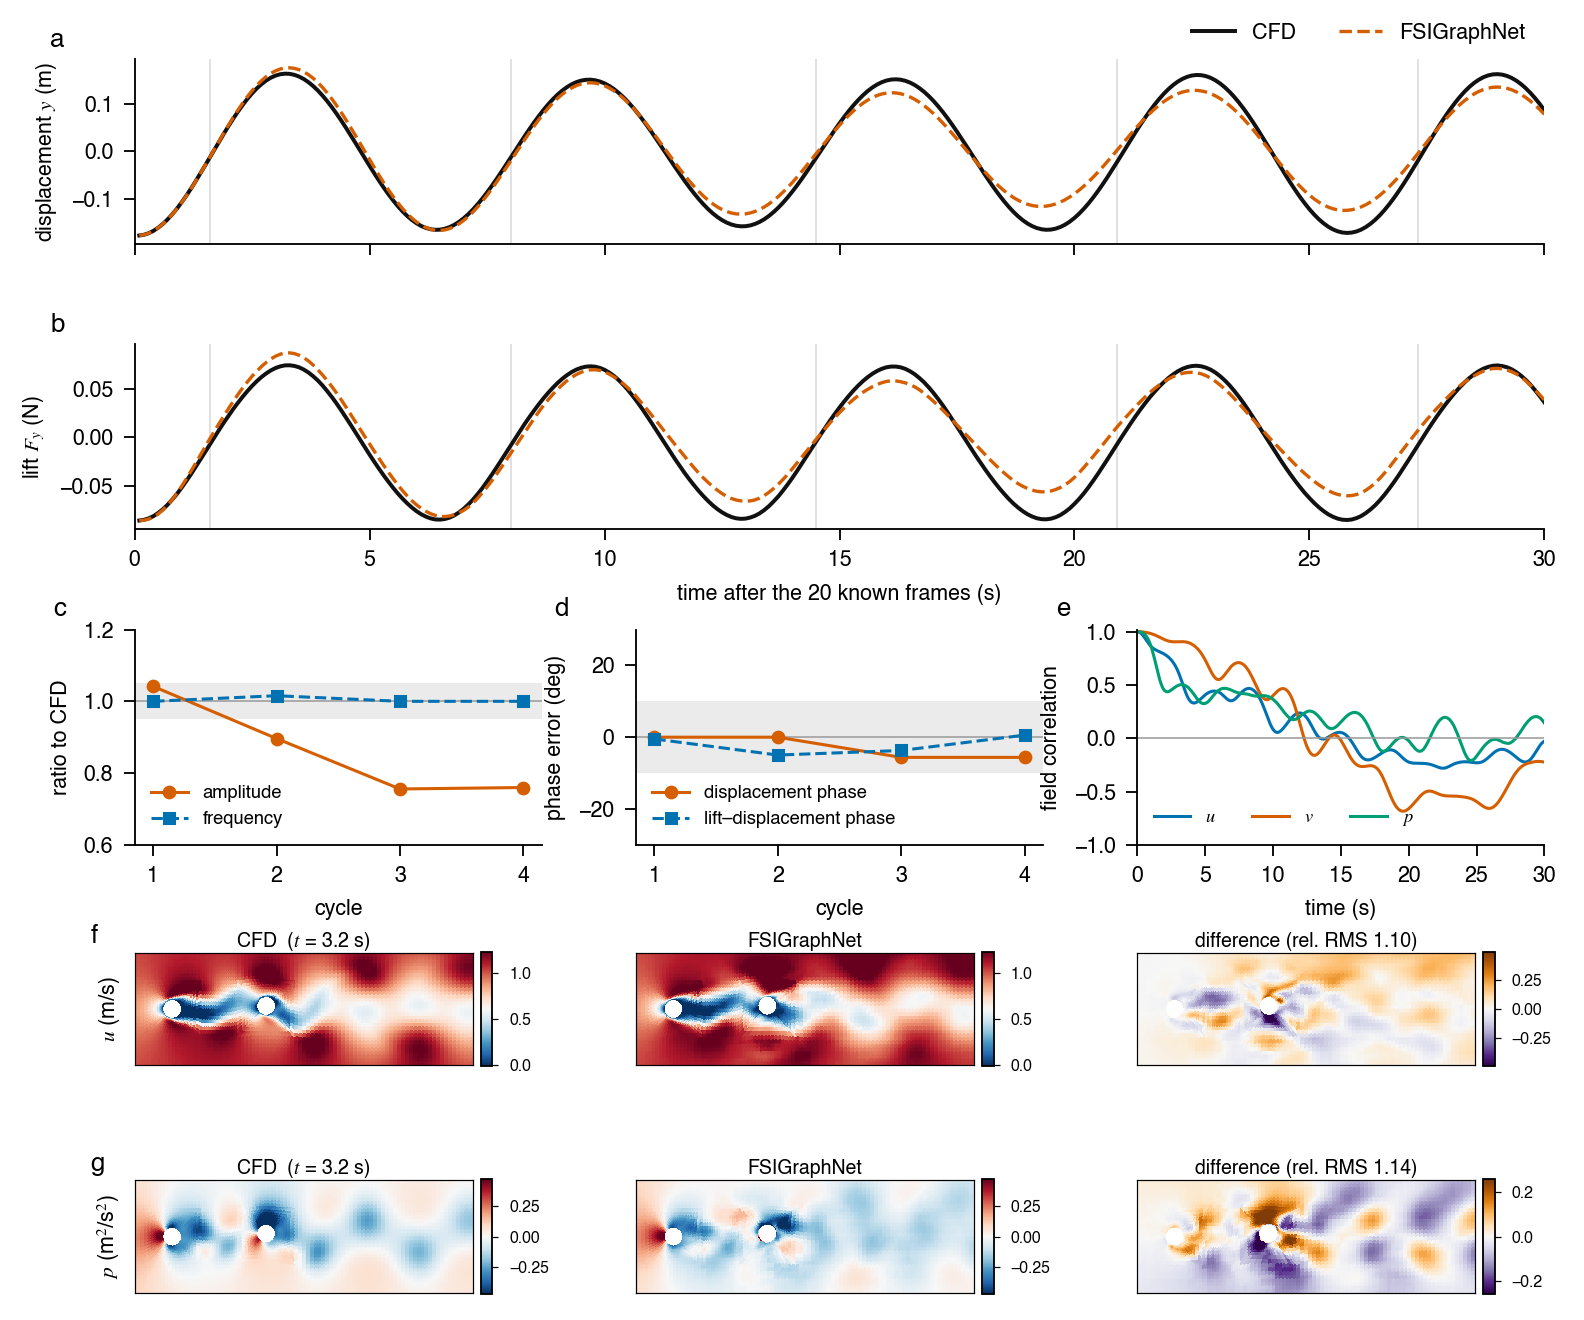
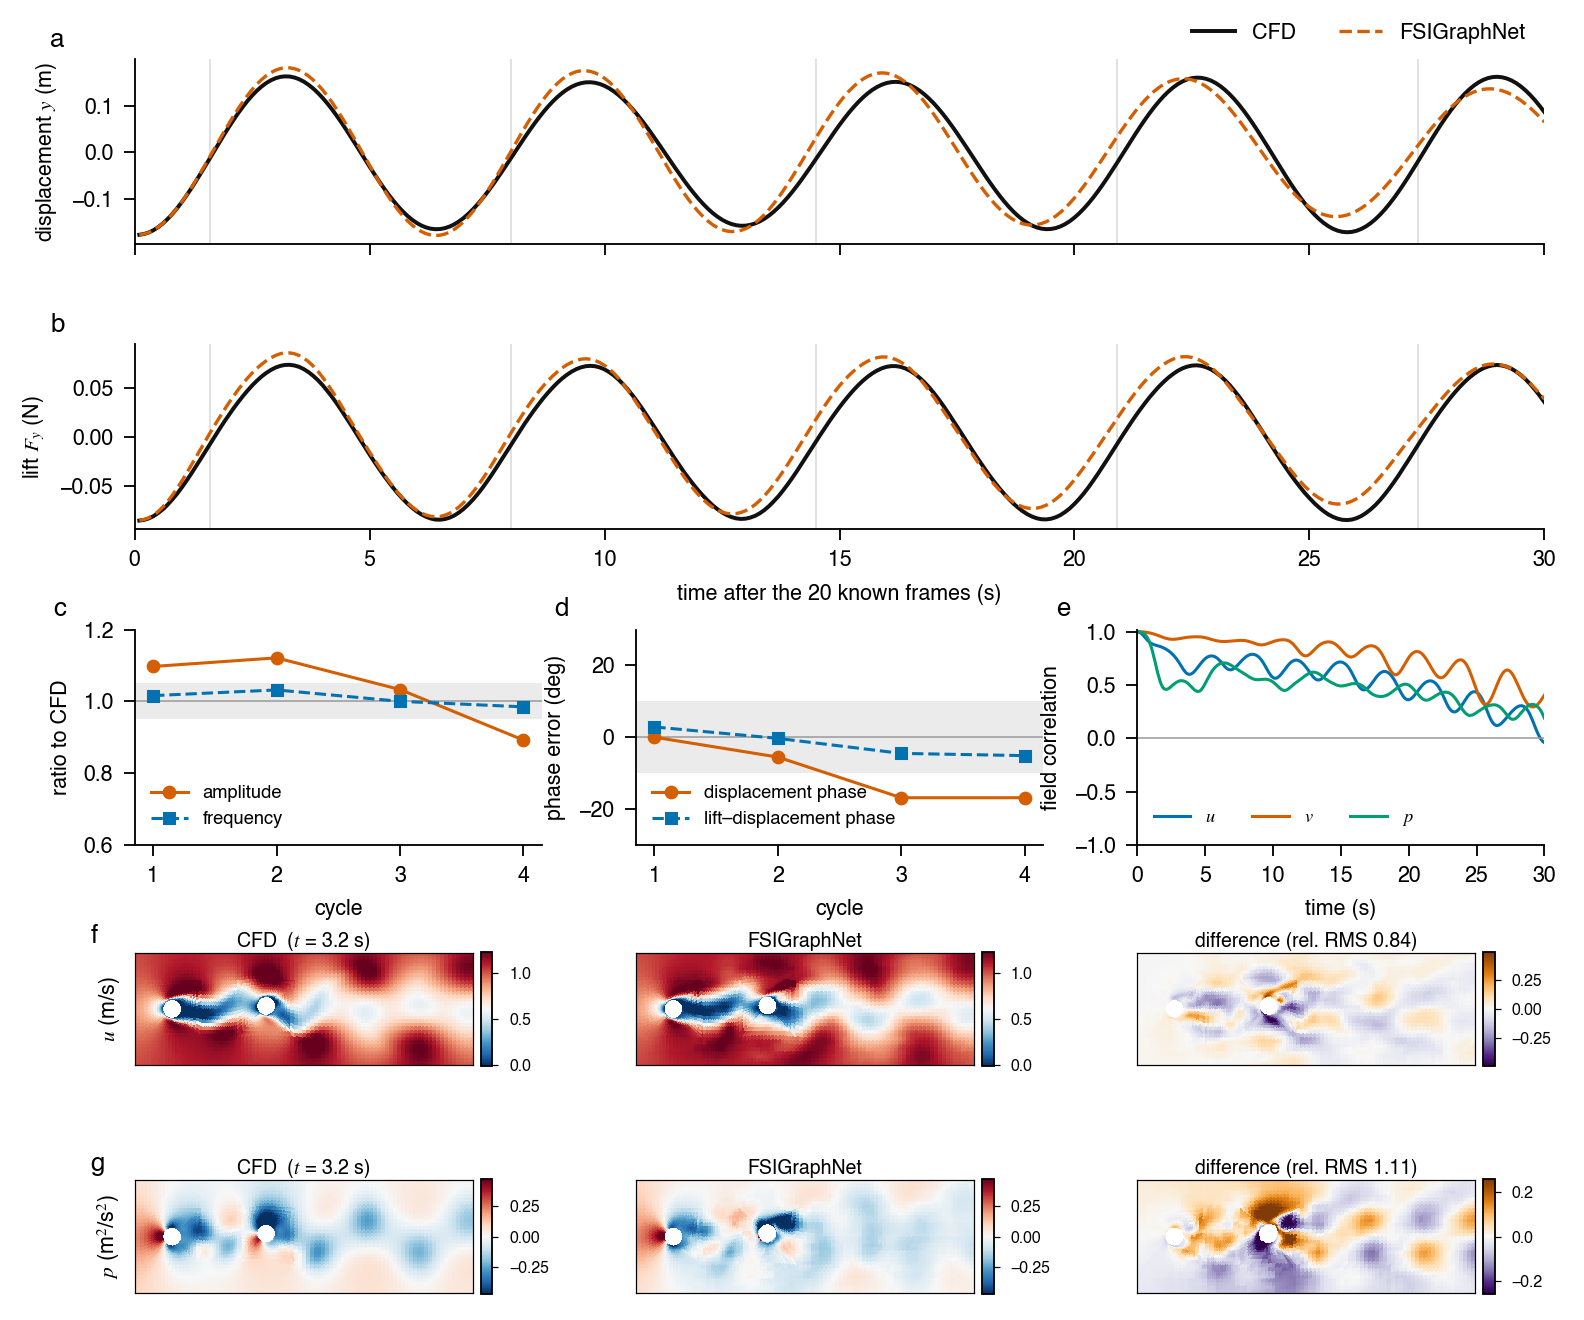
Release long-rollout fine-tuned model; flow-field figure and multi-model renderer

diff --git a/tools/render_compare.py b/tools/render_compare.py
@@ -1,0 +1,109 @@
+#!/usr/bin/env python3
+"""Compare several evaluation runs (fsi_mgn_eval.py, frames saved) against CFD on one case.
+
+  python3 tools/render_compare.py <case_view_dir> <out_dir> <label>=<eval_run_dir> [<label>=<eval_run_dir> ...]
+
+Figures:
+  compare_field_{p,u,v,w}.png  rows = rollout steps, columns = CFD | model 1 | model 2 | ...; one colour scale per row (from CFD)
+  compare_fields_summary.png   rows = p, u, v, vorticity; columns = CFD | models at half a period and two periods
+  compare_loads.png            rear-cylinder y and Fy (total, pressure, viscous) against CFD
+  compare_errors.png           per-step relative RMS error and correlation of u, v, p
+All runs must use the same case, offset and step count. Host numpy + matplotlib only.
+"""
+import json, sys
+from pathlib import Path
+import numpy as np
+import matplotlib
+matplotlib.use('Agg')
+import matplotlib.pyplot as plt
+import matplotlib.tri as mtri
+
+view, out = Path(sys.argv[1]), Path(sys.argv[2]); out.mkdir(parents=True, exist_ok=True); case = view.name
+runs = []
+for arg in sys.argv[3:]:
+    lab, d = arg.split('=', 1); d = Path(d); m = json.loads((d / 'results/metrics.json').read_text())
+    r0 = [r for r in m['runs'] if r['case'] == case][0]; od = d / 'results' / case / ('o%03d' % r0['offset'])
+    runs.append({'label': lab, 'm': m, 'r0': r0, 'traj': json.loads((od / 'trajectory.json').read_text())['rows'],
+                 'fr': np.load(od / 'frames.npz')})
+r0 = runs[0]['r0']; NK = int(runs[0]['m']['model_config']['known_frames']); a = r0['offset'] + NK - 1; n = len(runs[0]['traj'])
+P = r0['period_steps']
+z = np.load(view / 'sequence.npz'); quads = z['cell_vertices_ccw']; nc = len(quads)
+tris = np.vstack([quads[:, [0, 1, 2]], quads[:, [0, 2, 3]]]); cell_of_tri = np.concatenate([np.arange(nc), np.arange(nc)])
+own = z['planar_face_owner']; nei = z['planar_face_neighbor']; inner = nei >= 0; nei_ = np.where(inner, nei, own)
+
+
+def vort(U, S, V):
+    Uf = np.where(inner[:, None], .5 * (U[own] + U[nei_]), U[own]); cz = S[:, 0] * Uf[:, 1] - S[:, 1] * Uf[:, 0]
+    w = np.zeros(nc); np.add.at(w, own, cz); np.add.at(w, nei[inner], -cz[inner]); return w / V
+
+
+def cfd(i):
+    k = a + i; U = z['native_cell_U'][k][:, :2]
+    return {'u': U[:, 0], 'v': U[:, 1], 'p': z['native_cell_p'][k], 'w': vort(U, z['face_sf'][k][:, :2], z['cell_volume'][k])}, z['node_xy'][k]
+
+
+def pred(fr, i):
+    U = fr['U'][i - 1].astype(float)
+    return {'u': U[:, 0], 'v': U[:, 1], 'p': fr['p'][i - 1].astype(float), 'w': fr['w'][i - 1].astype(float)}, fr['xy'][i - 1].astype(float)
+
+
+steps = sorted({int(round(P / 2)), int(round(P)), int(round(2 * P)), n} & set(range(1, n + 1)))
+label = {'u': 'u (m/s)', 'v': 'v (m/s)', 'p': 'p (kinematic, m²/s²)', 'w': 'vorticity ω_z (1/s)'}
+cols = len(runs) + 1
+for key in ('p', 'u', 'v', 'w'):
+    fig, ax = plt.subplots(len(steps), cols, figsize=(4.6 * cols, 1.75 * len(steps) + 0.6), constrained_layout=True, squeeze=False)
+    for r, i in enumerate(steps):
+        fc, xc = cfd(i); ref = fc[key]; lo, hi = np.percentile(ref, [1, 99])
+        vmin, vmax = (lo, hi) if key == 'u' else ((-1.5, 1.5) if key == 'w' else (-max(abs(lo), abs(hi)), max(abs(lo), abs(hi))))
+        panels = [(xc, ref, 'CFD')]
+        for run in runs:
+            fp, xp = pred(run['fr'], i); e = fp[key] - ref
+            panels.append((xp, fp[key], '%s   rel.RMS %.2f' % (run['label'], np.sqrt((e ** 2).mean() / ((ref - ref.mean()) ** 2).mean()))))
+        for c, (xy, val, ttl) in enumerate(panels):
+            im = ax[r, c].tripcolor(mtri.Triangulation(xy[:, 0], xy[:, 1], tris), facecolors=val[cell_of_tri], cmap='RdBu_r', vmin=vmin, vmax=vmax)
+            ax[r, c].set_title(ttl, fontsize=9); ax[r, c].set_xlim(-2, 16); ax[r, c].set_ylim(-3, 3); ax[r, c].set_aspect('equal')
+            ax[r, c].tick_params(labelsize=6)
+        ax[r, 0].set_ylabel('step %d\nt+%.1f s' % (i, 0.1 * i), fontsize=9)
+        fig.colorbar(im, ax=ax[r, :], shrink=0.9, pad=0.01).ax.tick_params(labelsize=7)
+    fig.suptitle('%s — %s, %d-step autonomous rollout from %d known frames (no CFD reset)' % (label[key], case, n, NK), fontsize=11)
+    fig.savefig(out / ('compare_field_%s.png' % key), dpi=90); plt.close(fig)
+
+sel = [int(round(P / 2)), int(round(2 * P))]; keys = ('p', 'u', 'v', 'w'); cols = len(sel) * (len(runs) + 1)
+fig, ax = plt.subplots(len(keys), cols, figsize=(3.3 * cols, 1.5 * len(keys) + 0.5), constrained_layout=True, squeeze=False)
+ref0 = cfd(sel[0])[0]; lim = {}
+for key in keys:
+    lo, hi = np.percentile(ref0[key], [1, 99])
+    lim[key] = (lo, hi) if key == 'u' else ((-1.5, 1.5) if key == 'w' else (-max(abs(lo), abs(hi)), max(abs(lo), abs(hi))))
+for s, i in enumerate(sel):
+    fc, xc = cfd(i); fps = [pred(run['fr'], i) for run in runs]
+    for r, key in enumerate(keys):
+        ref = fc[key]; vmin, vmax = lim[key]
+        for j, (xy, val, ttl) in enumerate([(xc, ref, 'CFD')] + [(xp, fp[key], run['label']) for (fp, xp), run in zip(fps, runs)]):
+            x = ax[r, s * (len(runs) + 1) + j]
+            im = x.tripcolor(mtri.Triangulation(xy[:, 0], xy[:, 1], tris), facecolors=val[cell_of_tri], cmap='RdBu_r', vmin=vmin, vmax=vmax)
+            x.set_xlim(-2, 16); x.set_ylim(-3, 3); x.set_aspect('equal'); x.set_xticks([]); x.set_yticks([])
+            if r == 0: x.set_title('%s, t+%.1f s' % (ttl, 0.1 * i), fontsize=9)
+            if j == 0 and s == 0: x.set_ylabel(label[key], fontsize=8)
+        if s == len(sel) - 1: fig.colorbar(im, ax=ax[r, :], shrink=0.9, pad=0.01).ax.tick_params(labelsize=7)
+fig.savefig(out / 'compare_fields_summary.png', dpi=110); plt.close(fig)
+
+t = 0.1 * np.arange(1, n + 1); idx = a + np.arange(1, n + 1); F = z['native_force_components']
+fig, ax = plt.subplots(4, 1, figsize=(13, 10), sharex=True, constrained_layout=True)
+for k, (name, key, cv) in enumerate((('rear cylinder y (m)', 'y', z['native_y_absolute'][idx]), ('lift Fy total (N)', 'Fy', F[idx, 0]),
+                                      ('Fy pressure part (N)', 'Fp', F[idx, 1]), ('Fy viscous part (N)', 'Fv', F[idx, 2]))):
+    ax[k].plot(t, cv, 'k-', lw=2.2, label='CFD')
+    for j, run in enumerate(runs): ax[k].plot(t, [q[key] for q in run['traj']], color='C%d' % j, lw=1.3, label=run['label'])
+    ax[k].set_ylabel(name); ax[k].grid(alpha=.3)
+    for c in np.arange(P, n + 1, P) * 0.1: ax[k].axvline(c, color='0.75', lw=0.8, ls=':')
+ax[0].legend(fontsize=9, ncol=len(runs) + 1, loc='upper left'); ax[-1].set_xlabel('time after the last known frame (s); dotted = CFD periods')
+fig.suptitle('Rear-cylinder motion and lift — ' + case); fig.savefig(out / 'compare_loads.png', dpi=90); plt.close(fig)
+
+fig, axs = plt.subplots(2, 3, figsize=(15, 7), sharex=True, constrained_layout=True)
+for c, k in enumerate(('u', 'v', 'p')):
+    for j, run in enumerate(runs):
+        ps = run['r0']['per_step']; axs[0, c].plot(t, ps[k], color='C%d' % j, label=run['label']); axs[1, c].plot(t, ps['corr_' + k], color='C%d' % j)
+    axs[0, c].set_title('relative RMS error, %s' % k); axs[1, c].set_title('correlation with CFD, %s' % k); axs[1, c].set_ylim(-1, 1)
+    axs[1, c].set_xlabel('time after the last known frame (s)')
+for x in axs.flat: x.grid(alpha=.3)
+axs[0, 0].legend(fontsize=9); fig.savefig(out / 'compare_errors.png', dpi=90); plt.close(fig)
+print('rendered', case, [r['label'] for r in runs], 'steps', steps)

diff --git a/README.md b/README.md
@@ -37,7 +37,7 @@ FSIGraphNet predicts the flow field and the structural response of vortex-induce
 - **One network, both physics.** A MeshGraphNet with a structure node outputs the flow field (u, v, p, face flux) and the rear-cylinder state (y, v, a) in each step. The structure node is coupled two-way to the wall cells through wall–structure edges.
 - **Strong coupling inside the network.** Every step runs three fixed coupling stages: predict the flow → integrate the wall force → update the structure → move the mesh → feed physics residuals back into the network. No fixed-point iteration, no solve.
 - **Physics in training, not in inference.** Fluid–structure equilibrium, continuity, wall no-penetration and Newmark kinematics are augmented-Lagrangian constraints in the loss. At inference they are only explicit evaluations fed back as features.
-- **Trained for long horizons.** Before each training window the model rolls out 16–128 steps on its own outputs. Errors are therefore learned from the states the model actually reaches.
+- **Trained for long horizons.** Before each training window the model rolls out up to 192 steps (≈ 3 shedding cycles) on its own outputs. Errors are therefore learned from the states the model actually reaches. Window-level loss terms on the lift mean, lift fluctuation and lift power (energy transfer) keep the oscillation from drifting or decaying.
 
 ## Architecture
 
@@ -97,24 +97,29 @@ DEV case F+ (a separate run at the Re 100 training condition), released model; 3
 
 | Per cycle | 1 | 2 | 3 | 4 |
 |---|:-:|:-:|:-:|:-:|
-| Amplitude ratio | 1.04 | 0.90 | 0.76 | 0.76 |
-| Frequency ratio | 1.00 | 1.02 | 1.00 | 1.00 |
-| Phase error | 0° | 0° | −5.6° | −5.6° |
-| Lift RMS ratio | 1.07 | 0.85 | 0.71 | 0.79 |
-| Energy-transfer error | −1 % | −13 % | −12 % | −4 % |
+| Amplitude ratio | 1.10 | 1.12 | 1.03 | 0.89 |
+| Frequency ratio | 1.02 | 1.03 | 1.00 | 0.98 |
+| Phase error | 0° | −5.5° | −16.9° | −16.9° |
+| Lift RMS ratio | 1.06 | 1.00 | 0.98 | 0.96 |
+| Lift–displacement phase error | 2.9° | −0.3° | −4.5° | −5.1° |
+| Energy-transfer error | 8 % | −1 % | −15 % | −15 % |
 
 | Step | 10 | 32 | 65 | 150 | 300 |
 |---|:-:|:-:|:-:|:-:|:-:|
-| Relative error <i>u</i> / <i>v</i> / <i>p</i> | 0.55 / 0.20 / 0.57 | 1.10 / 0.45 / 1.14 | 1.23 / 0.81 / 1.11 | 1.85 / 1.24 / 1.38 | 2.32 / 1.42 / 1.58 |
-| Correlation <i>v</i> | 0.98 | 0.91 | 0.60 | −0.02 | −0.22 |
+| Relative error <i>u</i> / <i>v</i> / <i>p</i> | 0.48 / 0.17 / 0.54 | 0.84 / 0.37 / 1.11 | 0.73 / 0.42 / 0.84 | 0.88 / 0.58 / 1.06 | 1.58 / 1.06 / 1.38 |
+| Correlation <i>u</i> / <i>v</i> / <i>p</i> | 0.89 / 0.99 / 0.87 | 0.69 / 0.94 / 0.54 | 0.67 / 0.91 / 0.71 | 0.72 / 0.84 / 0.49 | −0.04 / 0.41 / 0.19 |
 
 <p align="center"><img src="docs/figures/fsi_graphnet_results.png" alt="FSIGraphNet results" width="100%"></p>
 
 **a, b** Rear-cylinder displacement and lift against CFD; grey lines mark CFD cycles. **c, d** Per-cycle amplitude and frequency ratios, and phase errors; shaded bands show the targets. **e** Field correlation with CFD. **f, g** Velocity <i>u</i> and pressure <i>p</i> at <i>t</i> = 3.2 s.
 
-The phase and frequency stay locked for four cycles. From cycle 3 on, the amplitude is ≈ 24 % low because the lift fluctuation is too weak. The flow field decorrelates from CFD after about one cycle.
+<p align="center"><img src="docs/figures/fsi_graphnet_fields.png" alt="FSIGraphNet flow fields against CFD" width="100%"></p>
 
-Inference takes ≈ 0.4 s per step on a single GB10 GPU (FP32).
+Pressure <i>p</i>, velocity <i>u</i> and <i>v</i>, and vorticity ω<sub><i>z</i></sub> against CFD at half a shedding cycle (<i>t</i> = 3.2 s) and two cycles (<i>t</i> = 12.8 s); each row shares one colour scale.
+
+The lift strength stays within 6 % of CFD for four cycles, and the transverse velocity field stays correlated with CFD (≥ 0.84) for more than two cycles. The frequency is up to 3 % high, so the displacement leads CFD by ≈ 17° from cycle 3 on. The far-wake vortices weaken over the rollout, which lowers the pressure correlation, and grid-scale noise appears around the moving rear cylinder.
+
+Inference takes ≈ 0.07 s per step on a single GB10 GPU (FP32).
 
 ## Installation
 
@@ -134,11 +139,11 @@ python fsi_mgn_infer.py --checkpoint checkpoints/fsi_graphnet.pt \
     --case <case_dir> --steps 300 --out out/ --fields
 ```
 
-**Training.** All hyperparameters of the released model are in `configs/fsi_graphnet.json`; `configs/finetune_lift*.json` add the lift-oscillation fine-tuning on top of it (`--config`). Runs data-parallel with torchrun in a container.
+**Training.** The released model is trained in three stages, each warm-started from the previous one: `configs/fsi_graphnet.json` (50 updates), `configs/finetune_lift_h16.json` (100 updates, adds the lift-oscillation terms) and `configs/finetune_lift_long.json` (150 updates, self-rollout up to 192 steps). Fine-tuning configs overlay their `base` config (`--config`). Runs data-parallel with torchrun in a container.
 
 ```bash
 tools/release.sh <tag> <root>
-python3 tools/make_recipe.py [--config <config>] <root> <run_id> <tag> [<init_checkpoint>]
+python3 tools/make_recipe.py [--config <config>] <root> <run_id> <tag> [<init_checkpoint> [warm|resume]]
 python3 tools/launch_train.py <root> <root>/experiments/recipes/<run_id>.json
 ```
 
@@ -146,6 +151,7 @@ python3 tools/launch_train.py <root> <root>/experiments/recipes/<run_id>.json
 
 ```bash
 bash tools/eval_checkpoint.sh <root> <run_id> <update> <case>
+python3 tools/render_compare.py <case_view_dir> <out_dir> <label>=<eval_dir> ...   # fields and loads of one or more models vs CFD
 ```
 
 **Tests.**
